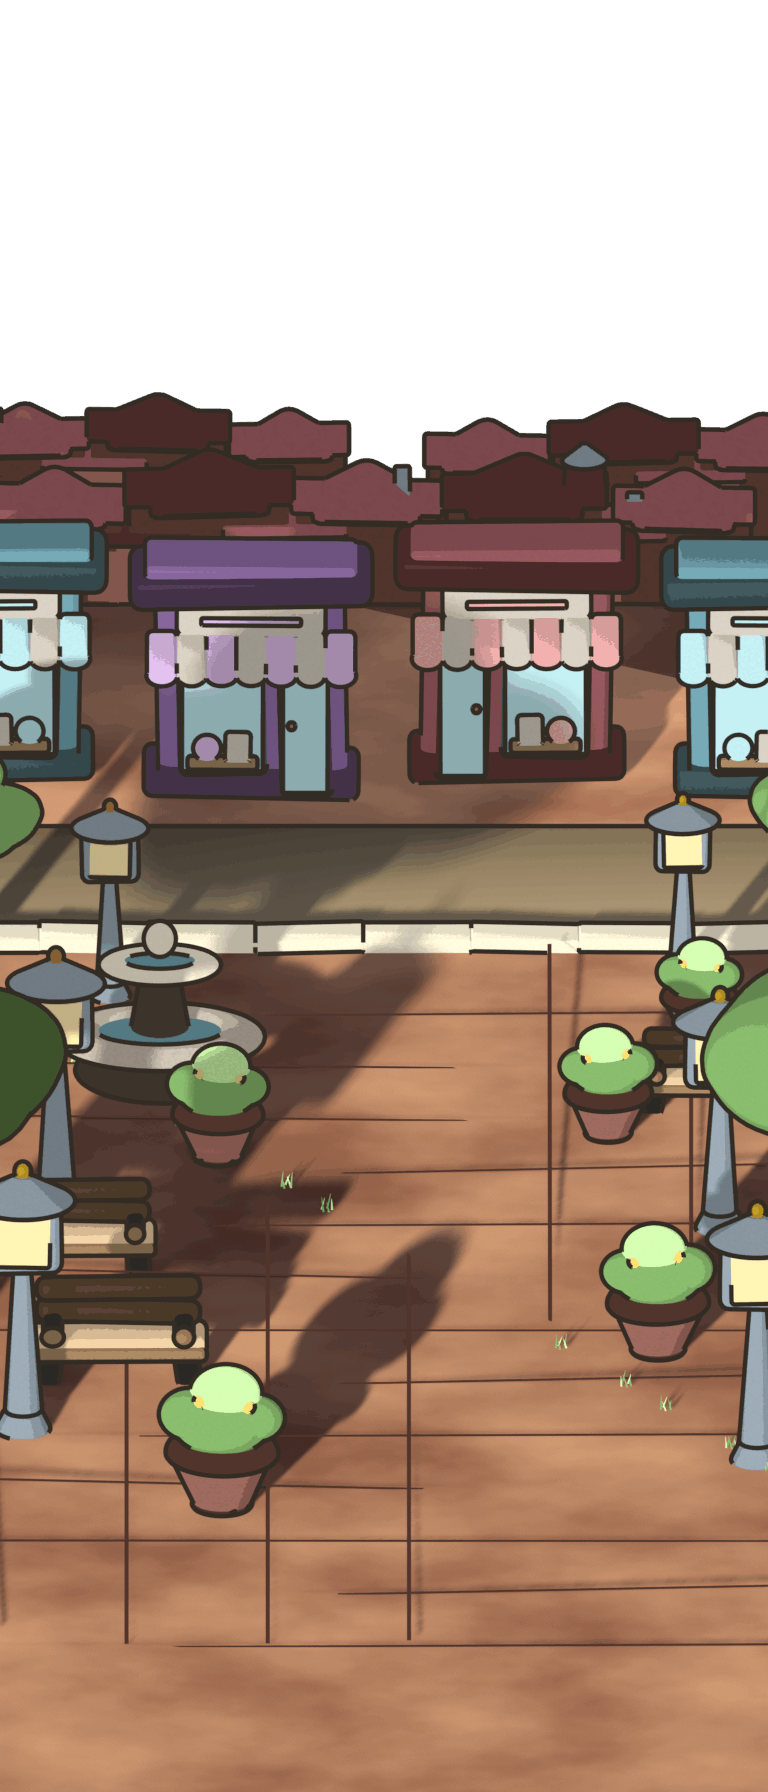
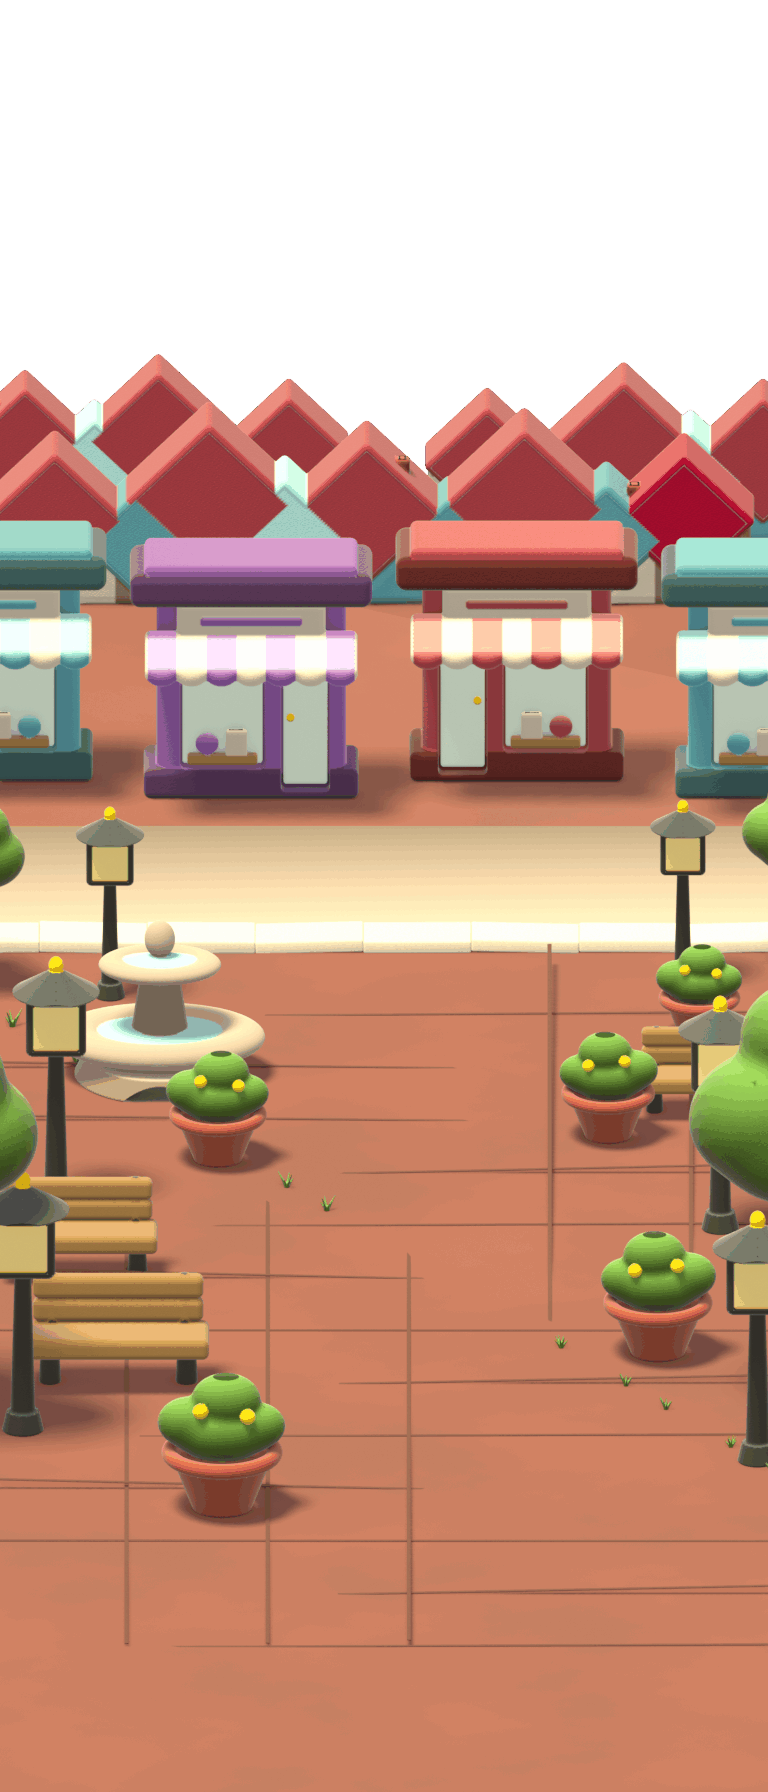
Town goes procedural and toy-lit: sculpted shopfronts, fountain, lamps, skyline
SCENE_STYLE town = sculpt, so every plate is now sculpted and toy-lit. The
kit gains three storefront colourways (coral, aqua, violet) with a pressed-
in window and door, display, brass knob, and a striped awning with a
scalloped hem; a two-tier fountain; street lamp with a glowing pane;
terracotta planter; and a skyline of pastel gabled houses (domes read as
red mushrooms and cross-view ridges as bars; gable ends to the camera read
as houses). place() maps town_* and park_bench to the kit; the storefront
loop takes its colourway directly. Town ground gets the toy treatment.
New test: every town colourway has a kit storefront.

Town plate 166 KB. art-hierarchy town: peak band 54.9% (primitive 59.3%),
chroma gap +0.056 (primitive +0.122), darks 0.5% (7.2%).

Claude-Session: https://claude.ai/code/session_01CJqbtqFeDnedgUGEMwdJjE

diff --git a/barkly/app/__tests__/sculpt_kit.test.ts b/barkly/app/__tests__/sculpt_kit.test.ts
@@ -19,6 +19,16 @@ const scene = readFileSync(join(ROOT, 'tools', 'blender', 'world_scene_pack.py')
 const kit = readFileSync(join(ROOT, 'tools', 'sculpt', 'kit.py')).toString();
 
 describe('sculpt kit', () => {
+  it('makes a storefront for every colourway the town builds', () => {
+    const fronts = scene.match(/fronts = \(([\s\S]*?)\n    \)/);
+    expect(fronts).not.toBeNull();
+    const names = [...(fronts as RegExpMatchArray)[1].matchAll(/^\s*\("(\w+)",/gm)].map((m) => m[1].toLowerCase());
+    expect(names.length).toBe(3);
+    const families = kit.match(/STORE_FAMILIES = \{([^}]*)\}/);
+    expect(families).not.toBeNull();
+    for (const n of names) expect((families as RegExpMatchArray)[1]).toContain(`"${n}"`);
+  });
+
   it('makes every fixed object a sculpted scene asks for', () => {
     const asked = [...scene.matchAll(/\bkit\("([a-z_]+)"/g)].map((m) => m[1]);
     expect(asked.length).toBeGreaterThan(0);

diff --git a/barkly/app/tools/sculpt/kit.py b/barkly/app/tools/sculpt/kit.py
@@ -134,6 +134,24 @@ PAINT.update({
     HEADLAND: ramp("stone", ("deep", "shade", "shade"), (1.0, 1.0, 1.0)),
 })
 
+# The town. Each storefront colourway is a family with three jobs: body,
+# edge (the darker trim), and awning (the loud stripe).
+BRICK, TERRACOTTA, GLOW, WATER = range(41, 45)
+PAINT.update({
+    BRICK: ramp("brick", ("deep", "shade", "base"), (1.0, 1.0, 1.0)),
+    TERRACOTTA: ramp("brick", ("shade", "base", "base"), (1.05, 1.1, 1.05)),
+    GLOW: ramp("sun", ("lit", "pop", "pop"), (1.0, 1.0, 1.0)),
+    WATER: ramp("sea", ("base", "lit", "lit"), (1.1, 1.1, 1.05)),
+})
+STORE_FAMILIES = {"coral": "roof", "aqua": "sea", "violet": "grape"}
+STORE = {}
+for n, (key, fam) in enumerate(STORE_FAMILIES.items()):
+    body, edge, awning = 50 + n * 3, 51 + n * 3, 52 + n * 3
+    STORE[key] = (body, edge, awning)
+    PAINT[body] = ramp(fam, ("shade", "base", "base"), (1.0, 1.05, 1.0))
+    PAINT[edge] = ramp(fam, ("deep", "shade", "shade"), (1.0, 1.05, 1.05))
+    PAINT[awning] = ramp(fam, ("base", "base", "lit"), (1.05, 1.1, 1.05))
+
 #: Flower heads take their colour from the bed, so they get ids above the rest.
 PETALS = {"berry": 20, "sun": 21, "cream": 22, "grape": 23}
 for fam, pid in PETALS.items():
@@ -538,6 +556,110 @@ def dune(seed):
                                             (0.95, -0.25, 0.14 - 0.6, 0.95, 0.80, 1.05))]
     return sdf.sit(sdf.warp(sdf.smooth_union(*lobes, k=0.45), amount=0.10, freq=0.9, seed=seed), k=0.05)
 
+
+# ------------------------------------------------------------------ the town
+
+def storefront(colour):
+    """A toy shopfront: a fat plinth, a rounded body, a crown and cornice, a
+    cream sign, a framed window with a little display, a door with a brass
+    knob, and a striped awning with a scalloped hem -- the playset detail."""
+    body_p, edge_p, awning_p = STORE[colour]
+    parts = [
+        sdf.place(sdf.round_box((2.02, 0.72, 0.30), 0.14, paint=edge_p), at=(0, 0.44, 0.30)),
+        sdf.place(sdf.round_box((1.78, 0.64, 2.10), 0.24, paint=body_p), at=(0, 0.48, 2.32)),
+        sdf.place(sdf.round_box((2.28, 0.90, 0.34), 0.20, paint=edge_p), at=(0, 0.26, 4.34)),
+        sdf.place(sdf.round_box((2.00, 0.80, 0.16), 0.12, paint=body_p), at=(0, 0.24, 4.68)),
+    ]
+    shell = sdf.smooth_union(*parts, k=0.06)
+    # window and door are pressed INTO the body, then filled
+    shell = sdf.smooth_subtract(shell, sdf.place(sdf.round_box((0.80, 0.30, 1.28), 0.10), at=(-0.54, -0.20, 1.86)), k=0.04)
+    shell = sdf.smooth_subtract(shell, sdf.place(sdf.round_box((0.46, 0.30, 1.50), 0.10), at=(1.02, -0.20, 1.66)), k=0.04)
+    glass = sdf.place(sdf.round_box((0.76, 0.05, 1.22), 0.06, paint=GLASS), at=(-0.54, -0.02, 1.88))
+    door = sdf.place(sdf.round_box((0.42, 0.05, 1.44), 0.06, paint=GLASS), at=(1.02, -0.02, 1.68))
+    knob = sdf.place(sdf.ellipsoid((0.08, 0.08, 0.08), paint=GOLD), at=(0.74, -0.12, 1.62))
+    sign = sdf.smooth_union(sdf.place(sdf.round_box((1.40, 0.16, 0.36), 0.14, paint=STRIPE), at=(0, -0.28, 3.70)),
+                            sdf.place(sdf.round_box((0.94, 0.05, 0.08), 0.04, paint=awning_p), at=(0, -0.44, 3.70)), k=0.02)
+    shelf = sdf.place(sdf.round_box((0.66, 0.12, 0.10), 0.05, paint=WOOD), at=(-0.54, -0.30, 0.86))
+    goods = sdf.union(sdf.place(sdf.ellipsoid((0.22, 0.12, 0.22), paint=awning_p), at=(-0.83, -0.32, 1.18)),
+                      sdf.place(sdf.round_box((0.20, 0.10, 0.26), 0.06, paint=STRIPE), at=(-0.28, -0.32, 1.20)))
+    awning = sdf.smooth_union(
+        sdf.place(sdf.round_box((2.00, 0.72, 0.14), 0.12, paint=awning_p), at=(0, -0.86, 3.18), rot=[("x", math.radians(12))]),
+        *[sdf.place(sdf.ellipsoid((0.28, 0.17, 0.20), paint=awning_p), at=(-1.68 + i * 0.56, -1.46, 3.00)) for i in range(7)],
+        k=0.06)
+    awning = sdf.repaint(awning, lambda p, m: np.where((np.floor((p[:, 0] + 1.96) / 0.56).astype(int) % 2) == 0, awning_p, STRIPE))
+    return sdf.sit(sdf.union(shell, glass, door, knob, sign, shelf, goods, awning), k=0.03)
+
+
+def rooftops(seed=0):
+    """The town behind the town: a row of little PASTEL houses with rounded
+    gables and chimneys. The first cut was all maroon brick with pointed
+    gables and read as a fortress wall along the skyline -- the wrong mood for
+    this game. Toy houses come in different colours."""
+    walls = (STRIPE, SAND, STORE["coral"][0], STRIPE, STORE["aqua"][0], SAND, STORE["violet"][0], STRIPE, SAND)
+    # Mixed roof colours -- the second cut was all ROOF and BERRY, two reds,
+    # and scaled up for the skyline they read as a field of red mushrooms.
+    roofs = (ROOF, TRIM, CORAL, AQUA, ROOF, SEA, CORAL, TRIM, BERRY)
+    parts = []
+    for i, (x, half, h) in enumerate(((-3.05, 0.62, 0.86), (-2.30, 0.48, 0.62), (-1.62, 0.74, 1.02), (-0.92, 0.54, 0.70),
+                                      (-0.16, 0.66, 0.92), (0.60, 0.46, 0.58), (1.30, 0.72, 0.98), (2.06, 0.52, 0.66),
+                                      (2.78, 0.62, 0.84))):
+        parts.append(sdf.place(sdf.round_box((half, 0.30, h * 0.5), 0.07, paint=walls[i]), at=(x, 0, h * 0.5)))
+        # A PITCHED roof with its GABLE END to the camera: a rounded bar
+        # turned 45 degrees about the depth axis, so each house shows a soft
+        # triangle. Domes read as mushrooms at skyline scale, and a ridge
+        # running across the view showed only its flat slope -- a coloured bar.
+        a = half * 1.08 / math.sqrt(2)
+        parts.append(sdf.place(sdf.round_box((a, 0.34, a), 0.05, paint=roofs[i]), at=(x, 0.0, h),
+                               rot=[("y", math.pi / 4)]))
+        if i % 3 == 1:
+            parts.append(sdf.place(sdf.round_box((0.07, 0.07, 0.16), 0.03, paint=BRICK), at=(x + half * 0.5, -0.04, h + 0.30)))
+        # one window per house
+        parts.append(sdf.place(sdf.round_box((0.10, 0.03, 0.12), 0.03, paint=GLASS), at=(x, -0.30, h * 0.55)))
+    return sdf.sit(sdf.union(*parts), k=0.02)
+
+
+def fountain(seed=0):
+    """A round two-tier fountain: plinth, a fat rolled lower basin full of
+    water, a column, a smaller basin, and a finial."""
+    stone_parts = [
+        sdf.cone(1.34, 1.16, 0.34, paint=ROCK),
+        sdf.squash(sdf.place(sdf.torus(1.04, 0.30, paint=STONE), at=(0, 0, 0.62)), (1.22, 0.84, 0.66), about=(0, 0, 0.62)),
+        sdf.place(sdf.cone(0.46, 0.30, 1.10, paint=ROCK), at=(0, 0.08, 0.60)),
+        sdf.squash(sdf.place(sdf.torus(0.62, 0.20, paint=STONE), at=(0, 0.02, 1.82)), (1.16, 0.84, 0.62), about=(0, 0.02, 1.82)),
+        sdf.place(sdf.ellipsoid((0.24, 0.21, 0.30), paint=STONE), at=(0, 0.05, 2.24)),
+    ]
+    water = sdf.union(sdf.place(sdf.ellipsoid((1.20, 0.72, 0.10), paint=WATER), at=(0, -0.02, 0.68)),
+                      sdf.place(sdf.ellipsoid((0.66, 0.38, 0.08), paint=WATER), at=(0, -0.02, 1.88)))
+    return sdf.sit(sdf.union(sdf.smooth_union(*stone_parts, k=0.08), water), k=0.03)
+
+
+def lamp(seed=0):
+    """A street lamp: flared foot, tapering post, brass collar, a lantern
+    with a glowing pane, a peaked cap and a brass finial."""
+    iron = [sdf.cone(0.34, 0.26, 0.34, paint=IRON),
+            sdf.capsule((0, 0, 0.30), (0, 0, 2.84), 0.20, 0.13, paint=IRON)]
+    collar = sdf.place(sdf.cone(0.28, 0.20, 0.22, paint=GOLD), at=(0, 0, 2.80))
+    lz = 3.30
+    lantern = sdf.place(sdf.round_box((0.52, 0.42, 0.56), 0.12, paint=IRON), at=(0, 0, lz))
+    pane = sdf.place(sdf.round_box((0.40, 0.05, 0.42), 0.06, paint=GLOW), at=(0, -0.40, lz))
+    cap = sdf.place(sdf.cone(0.78, 0.14, 0.40, paint=IRON), at=(0, 0, lz + 0.50))
+    fin = sdf.place(sdf.ellipsoid((0.13, 0.12, 0.17), paint=GOLD), at=(0, 0, lz + 1.00))
+    return sdf.sit(sdf.union(sdf.smooth_union(*iron, collar, lantern, cap, fin, k=0.05), pane), k=0.02)
+
+
+def planter(seed=0):
+    """A terracotta pot with a rolled rim and a lumpy plant with two yellow
+    blooms."""
+    pot = sdf.smooth_union(sdf.cone(0.46, 0.80, 0.90, paint=TERRACOTTA),
+                           sdf.place(sdf.torus(0.82, 0.12, paint=TERRACOTTA), at=(0, 0, 0.92)), k=0.05)
+    pz = 1.30
+    plant = sdf.smooth_union(sdf.place(sdf.ellipsoid((0.78, 0.60, 0.50), paint=LEAF), at=(0, 0.02, pz)),
+                             *[sdf.place(sdf.ellipsoid((r, r * 0.8, r * 0.8), paint=LEAF), at=(x, -0.04, pz + z))
+                               for x, z, r in ((-0.50, 0.14, 0.50), (0.06, 0.50, 0.54), (0.52, 0.08, 0.46))], k=0.10)
+    blooms = sdf.union(*[sdf.place(sdf.ellipsoid((0.12, 0.12, 0.12), paint=YELLOW), at=(x, y, pz + z))
+                         for x, y, z in ((-0.34, -0.40, 0.46), (0.40, -0.42, 0.38))])
+    return sdf.sit(sdf.union(pot, plant, blooms), k=0.03)
+
 #: name -> (builder, bounds lo, bounds hi, resolution)
 KIT = {}
 for s in range(6):
@@ -575,6 +697,14 @@ KIT["headland"] = (headland, (-38.0, -2.8, -0.1), (38.0, 5.2, 1.6), 0.09)
 for s in range(2):
     KIT[f"dune_{s}"] = (lambda s=s: dune(s), (-4.4, -2.4, -0.1), (4.0, 2.4, 1.2), 0.05)
 
+
+# The town.
+for key in STORE_FAMILIES:
+    KIT[f"store_{key}"] = (lambda key=key: storefront(key), (-2.5, -1.8, -0.1), (2.5, 1.3, 5.0), 0.03)
+KIT["rooftops"] = (rooftops, (-3.9, -0.6, -0.1), (3.6, 0.6, 1.8), 0.02)
+KIT["fountain"] = (fountain, (-1.8, -1.2, -0.1), (1.8, 1.2, 2.7), 0.022)
+KIT["lamp"] = (lamp, (-0.9, -0.7, -0.1), (0.9, 0.7, 4.6), 0.02)
+KIT["planter"] = (planter, (-1.1, -1.0, -0.1), (1.1, 1.0, 2.2), 0.02)
 
 def build(name, out: Path):
     builder, lo, hi, res = KIT[name]

diff --git a/barkly/app/tools/blender/world_scene_pack.py b/barkly/app/tools/blender/world_scene_pack.py
@@ -658,7 +658,11 @@ def town():
     #   lit->pop      sat 0.280  val 0.522   back to where concrete was
     #
     # Against town's composited 0.292 / 0.475 and park's 0.516 / 0.659.
-    ground(tone("brick", "base"), tone("brick", "lit"), tooth=30.0, bump=0.07)
+    if SCULPTED:
+        gv = TOY_LIGHT["ground_value"]
+        ground(_toy(tone("brick", "base"), 1.1, gv), _toy(tone("brick", "base"), 1.2, gv * 1.08), tooth=30.0, bump=0.02)
+    else:
+        ground(tone("brick", "base"), tone("brick", "lit"), tooth=30.0, bump=0.07)
     _anchor("stand", 0.0, -3.0)
     _anchor("standTop", 0.0, -3.0, 1.0)
     _anchor("horizon", 0.0, 43.0)
@@ -696,6 +700,9 @@ def town():
     )
     for i, x in enumerate((-16.0, -9.6, -3.2, 3.2, 9.6, 16.0)):
         name, body, edge, awning = fronts[i % 3]
+        if SCULPTED:
+            kit(f"store_{name.lower()}", x, 29.0 + (i % 2) * 1.1, 1.28, flip=(i % 2 == 1))
+            continue
         place(lambda n=name, b=body, e=edge, a=awning: pack.storefront(n, b, e, a),
               x, 29.0 + (i % 2) * 1.1, 1.28, flip=(i % 2 == 1))
 
@@ -1049,7 +1056,7 @@ def _poly(name: str, points, z: float, mat):
 # Which scenes are sculpted is this table, and going back is one word in it
 # (or SCENE_STYLE=primitive for a single run) -- the primitive builders are
 # untouched underneath.
-SCENE_STYLE = {"park": "sculpt", "town": "primitive", "beach": "sculpt"}
+SCENE_STYLE = {"park": "sculpt", "town": "sculpt", "beach": "sculpt"}
 SCULPTED = False  # set per scene by main(), read by every builder
 KIT_DIR = ROOT / "art-review" / "sculpt" / "kit"
 _KIT_MESHES: dict = {}
@@ -1062,6 +1069,11 @@ SCULPTED_BUILDERS = {
     "beach_castle": "castle",
     "beach_palm": "palm_",
     "beach_shells": "shell",
+    "town_rooftops": "rooftops",
+    "town_fountain": "fountain",
+    "town_lamp": "lamp",
+    "town_planter": "planter",
+    "park_bench": "bench",
 }
 
 #: The kit is painted against the canon's STUDIO light (render_sculpt.py) and

diff --git a/barkly/docs/ART_STYLE.md b/barkly/docs/ART_STYLE.md
@@ -294,7 +294,10 @@ script reports and is deliberately not a CI gate — `npm run art:hierarchy`.
 
 ## What is NOT decided yet
 
-- Town and Home are still primitive. Park and beach are sculpted; the rest
-  convert the same way, one at a time, each judged on its own.
+- Home is still primitive. Park, beach and town are sculpted (town: three
+  storefront colourways with striped scalloped awnings, fountain, lamps,
+  planters, and a skyline of pastel gabled houses -- the first skyline was
+  domes, which read as a field of red mushrooms, then ridges across the view,
+  which read as coloured bars; gable ends to the camera read as houses).
 - The lawn's shadows (see the warm-shadow row above).
 - The UI. It is still drawn in its own language.
